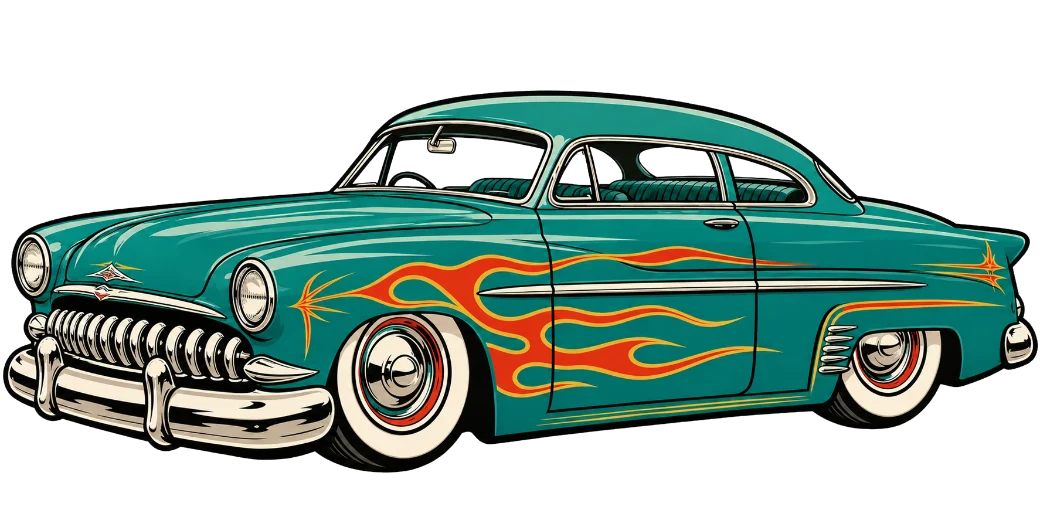
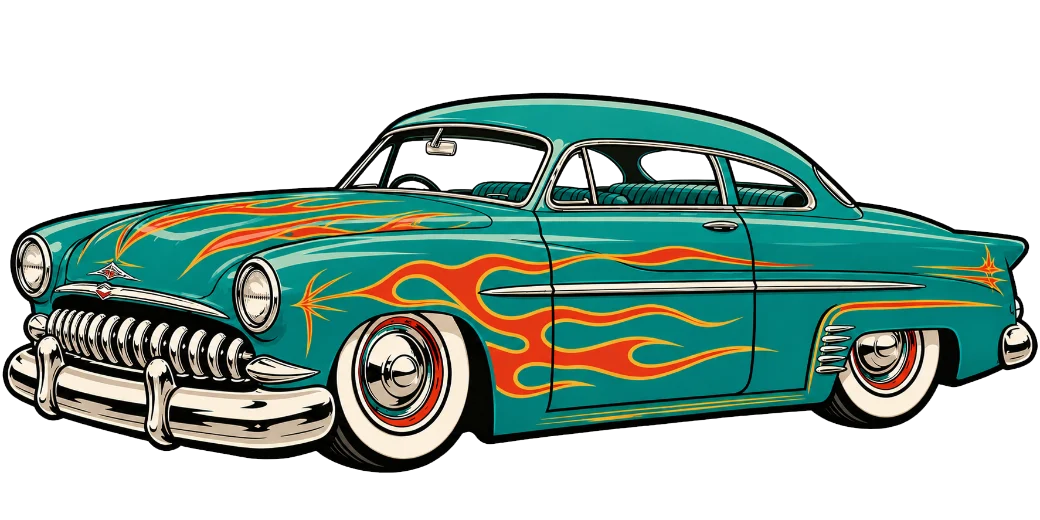
Use a matched pair of hot rod images for the hood lift
The closed and open pictures now line up much more closely, so only the hood appears to move. The lift waits until the open picture has loaded.

Changed region(s): [[0.0, 0.1538, 1.0, 0.8923], [0.3077, 0.8615, 0.3385, 0.8923]]

diff --git a/index.html b/index.html
@@ -379,7 +379,7 @@
           <h2 id="why-title">What you don't see, and why it matters</h2>
           <p class="section-lede">Two websites can look identical in a screenshot and behave completely differently for your customers. Most of what separates a good site from a bad one is invisible, right up until it costs you a customer.</p>
           </div>
-          <div class="hood-swap"><img class="hotrod" src="images/hotrod-hood-closed.webp?v=1" width="1040" height="520" loading="lazy" decoding="async" alt="Illustration: a teal 1950s hot rod with flames and whitewall tires, its hood up on a chrome engine"><img class="hotrod hood-open" src="images/hotrod-hood-open.webp?v=1" width="1040" height="520" loading="lazy" decoding="async" alt=""></div>
+          <div class="hood-swap"><img class="hotrod" src="images/hotrod-hood-closed.webp?v=2" width="1040" height="520" loading="lazy" decoding="async" alt="Illustration: a teal 1950s hot rod with flames and whitewall tires, its hood up on a chrome engine"><img class="hotrod hood-open" src="images/hotrod-hood-open.webp?v=2" width="1040" height="520" loading="lazy" decoding="async" alt=""></div>
         </div>
 
         <p class="compare-lead hood-lead">Nine common problems hiding in many websites, and what to watch out for:</p>
@@ -857,6 +857,6 @@
     <div class="strip"></div>
   </section>
 
-  <script src="script.js?v=28" defer></script>
+  <script src="script.js?v=29" defer></script>
 </body>
 </html>

diff --git a/script.js b/script.js
@@ -205,9 +205,13 @@
     new IntersectionObserver(function (entries, obs) {
       if (!entries[0].isIntersecting) return;
       obs.disconnect();
-      setTimeout(function () {
+      var openImg = hood.querySelector('.hood-open');
+      var lift = function () {
         hood.classList.add('is-open');
         setTimeout(function () { hood.classList.add('is-done'); }, 600);
+      };
+      setTimeout(function () {                                          // wait for the open-hood picture so the lift never shows a gap
+        (openImg.decode ? openImg.decode() : Promise.resolve()).then(lift, lift);
       }, 2000);
     }, { threshold: 0.6, rootMargin: '0px 0px -20% 0px' }).observe(hood);
   }
